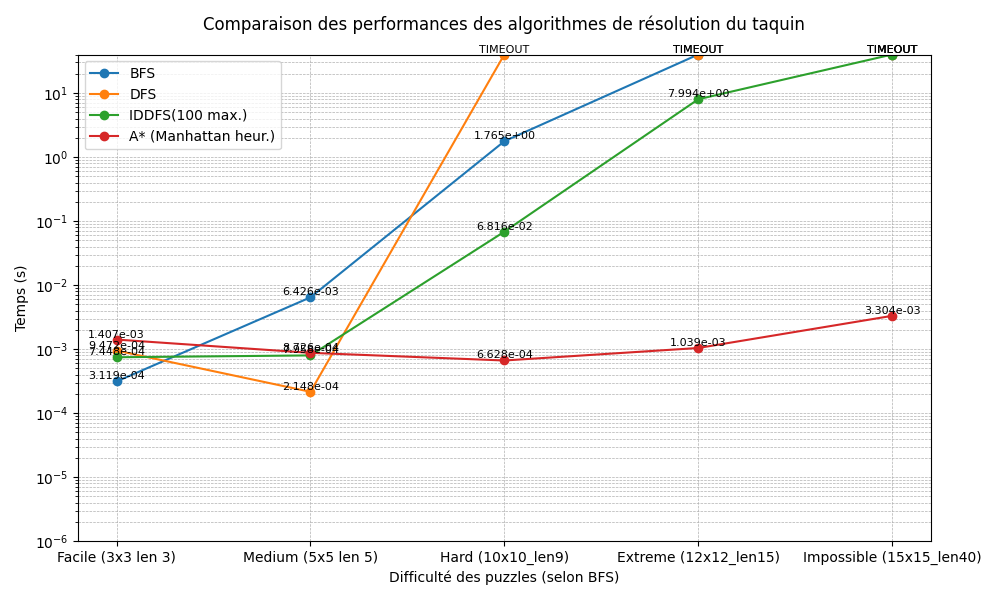
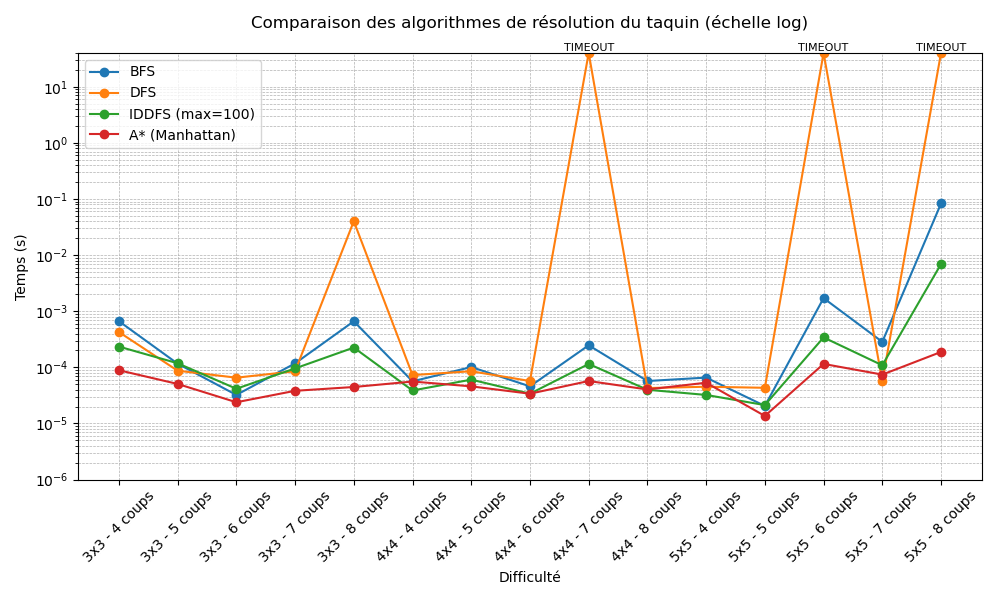
Correction courbe

Changed region(s): [[0.0, 0.03, 0.992, 0.99], [0.961, 0.81, 0.992, 0.84]]

diff --git a/n-puzzle/generate_graphics.py b/n-puzzle/generate_graphics.py
@@ -9,32 +9,52 @@ import signal
 def timeout_handler(signum, frame):
     raise Exception("timeout")
 
-
 signal.signal(signal.SIGALRM, timeout_handler)
-
 
 ALGOS = {
     "BFS": lambda o: solve_bfs(o),
     "DFS": lambda o: solve_dfs(o),
-    "IDDFS(100 max.)": lambda o: solve_iddfs(o[0], 100),
-    "A* (Manhattan heur.)": lambda o: solve_astar(o)
+    "IDDFS (max=100)": lambda o: solve_iddfs(o[0], 100),
+    "A* (Manhattan)": lambda o: solve_astar(o)
 }
 
+
 TEST_FILES = [
-    "easy/npuzzle_3x3_len3_2.txt",
-    "medium/npuzzle_5x5_len5_2.txt",
-    "hard/npuzzle_10x10_len9_2.txt",
-    "extreme/npuzzle_12x12_len15_2.txt",
-    "impossible/npuzzle_15x15_len40_2.txt"
+    "graphics/npuzzle_3x3_len4_0.txt",
+    "graphics/npuzzle_3x3_len5_0.txt",
+    "graphics/npuzzle_3x3_len6_0.txt",
+    "graphics/npuzzle_3x3_len7_0.txt",
+    "graphics/npuzzle_3x3_len8_0.txt",
+    "graphics/npuzzle_4x4_len4_0.txt",
+    "graphics/npuzzle_4x4_len5_0.txt",
+    "graphics/npuzzle_4x4_len6_0.txt",
+    "graphics/npuzzle_4x4_len7_0.txt",
+    "graphics/npuzzle_4x4_len8_0.txt",
+    "graphics/npuzzle_5x5_len4_0.txt",
+    "graphics/npuzzle_5x5_len5_0.txt",
+    "graphics/npuzzle_5x5_len6_0.txt",
+    "graphics/npuzzle_5x5_len7_0.txt",
+    "graphics/npuzzle_5x5_len8_0.txt",
 ]
 
 DIFFICULTIES = [
-    "Facile (3x3 len 3)",
-    "Medium (5x5 len 5)",
-    "Hard (10x10_len9)",
-    "Extreme (12x12_len15)",
-    "Impossible (15x15_len40)"
+    "3x3 - 4 coups",
+    "3x3 - 5 coups",
+    "3x3 - 6 coups",
+    "3x3 - 7 coups",
+    "3x3 - 8 coups",
+    "4x4 - 4 coups",
+    "4x4 - 5 coups",
+    "4x4 - 6 coups",
+    "4x4 - 7 coups",
+    "4x4 - 8 coups",
+    "5x5 - 4 coups",
+    "5x5 - 5 coups",
+    "5x5 - 6 coups",
+    "5x5 - 7 coups",
+    "5x5 - 8 coups",
 ]
+
 
 MAX_TIME = 40
 TIMEOUT = 30
@@ -42,9 +62,12 @@ TIMEOUT = 30
 
 def run_solver(solver, file):
     puzzle = load_puzzle("tests/" + file)
-    print("Puzzle en cours : " + file)
+    print("Puzzle en cours :", file)
+
     root = Node(state=puzzle, move=None)
+
     signal.alarm(TIMEOUT)
+
     try:
         start = time.time()
         solver([root])
@@ -58,17 +81,24 @@ def run_solver(solver, file):
 def compute_results():
     results = []
     for solver in ALGOS.values():
-        results.append([run_solver(solver, f) for f in TEST_FILES])
+        algo_times = []
+        for f in TEST_FILES:
+            algo_times.append(run_solver(solver, f))
+        results.append(algo_times)
     return results
 
 
 def clean_results(results):
     return [[min(x, MAX_TIME) for x in algo] for algo in results]
 
+def sort_by_difficulty(results):
+    def key_func(label):
+        size, moves = label.split(" - ")
+        n = int(size.split("x")[0])     # 3, 4, 5
+        m = int(moves.split()[0])       # 4, 5, ...
+        return (n, m)
 
-def sort_by_bfs(results):
-    bfs_times = results[0]
-    indices = np.argsort(bfs_times)
+    indices = sorted(range(len(DIFFICULTIES)), key=lambda i: key_func(DIFFICULTIES[i]))
 
     sorted_diff = [DIFFICULTIES[i] for i in indices]
     sorted_res = [[algo[i] for i in indices] for algo in results]
@@ -79,28 +109,30 @@ def sort_by_bfs(results):
 def plot_results(difficulties, results):
     plt.figure(figsize=(10, 6))
 
-    for i, (name, algo_res) in enumerate(zip(ALGOS.keys(), results)):
+    for name, algo_res in zip(ALGOS.keys(), results):
         plt.plot(difficulties, algo_res, marker='o', label=name)
 
         for j, val in enumerate(algo_res):
-            label = "TIMEOUT" if val == MAX_TIME else f"{val:.3e}"
+            label = "TIMEOUT" if val == MAX_TIME else "" # f"{val:.3e}"
             plt.text(j, val, label, ha='center', va='bottom', fontsize=8)
 
     plt.yscale('log')
     plt.ylabel("Temps (s)")
-    plt.xlabel("Difficulté des puzzles (selon BFS)")
+    plt.xlabel("Difficulté")
     plt.ylim(1e-6, MAX_TIME)
 
-    plt.title("Comparaison des performances des algorithmes de résolution du taquin", pad=18)
+    plt.title("Comparaison des algorithmes de résolution du taquin (échelle log)", pad=18)
     plt.legend()
     plt.grid(True, which="both", linestyle="--", linewidth=0.5)
 
+    plt.xticks(rotation=45)
     plt.tight_layout()
     plt.savefig('courbes_algos.png')
+    plt.show()
 
 
 if __name__ == "__main__":
     raw_results = compute_results()
     cleaned = clean_results(raw_results)
-    difficulties, sorted_results = sort_by_bfs(cleaned)
+    difficulties, sorted_results = sort_by_difficulty(cleaned)
     plot_results(difficulties, sorted_results)

diff --git a/n-puzzle/README.md b/n-puzzle/README.md
@@ -2,7 +2,7 @@
 ## Structuration du répertoire :
 
 - `solve_npuzzle.py` : Algorithmes de résolution du taquin : BFS, DFS, IDDFS (profondeur max 100), A* (avec heuristique de Manhattan)
-- `tests/*` : Plusieurs tests classés par difficulté pour les algorithmes (Script `launch_tests.sh`)
+- `tests/*` : Plusieurs tests classés par difficulté pour les algorithmes (facile, moyen...) (Script `launch_tests.sh`). Les fichiers utilisés pour les courbes de performances sont dans le dossier `tests/graphics/`
 - `generate_graphics.py` : Script utilisé pour générer l'image des courbes de performances `courbes_algos.png` ci dessous
 - `generate_npuzzle.py`, `node.py`, `npuzzle.py` : fournis
 ## Lancer tous les tests
